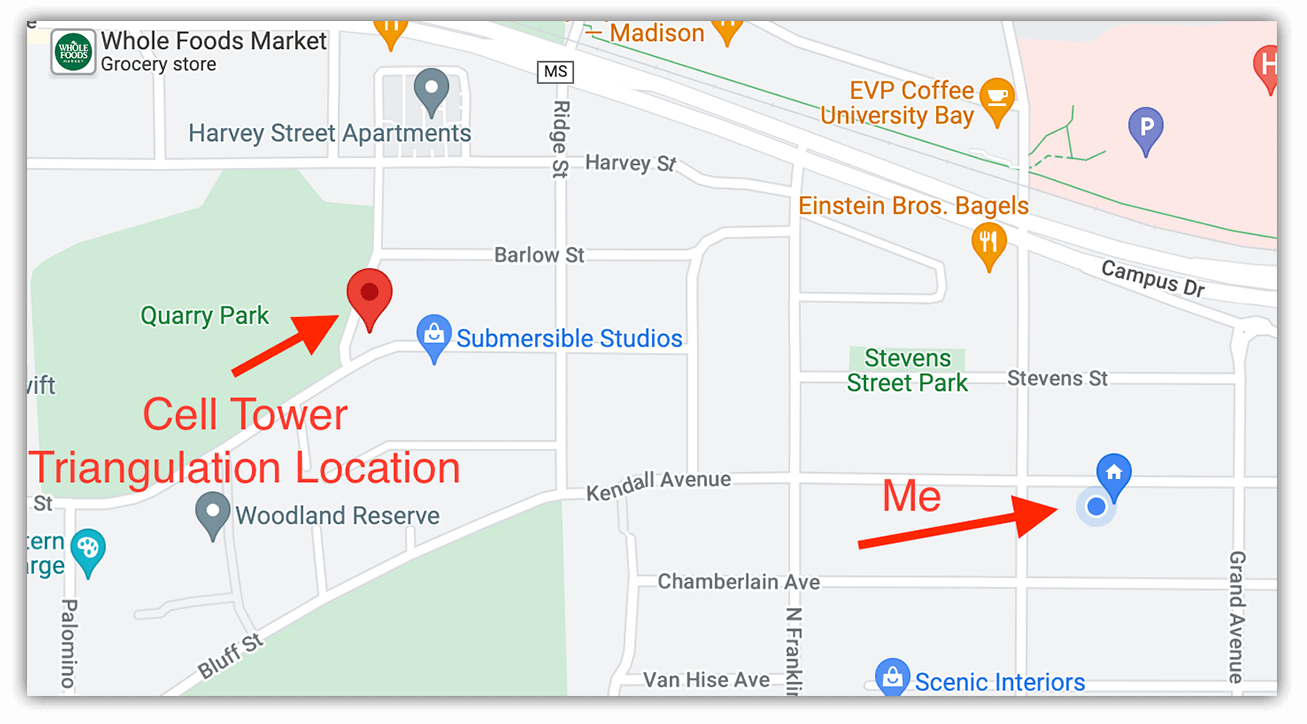
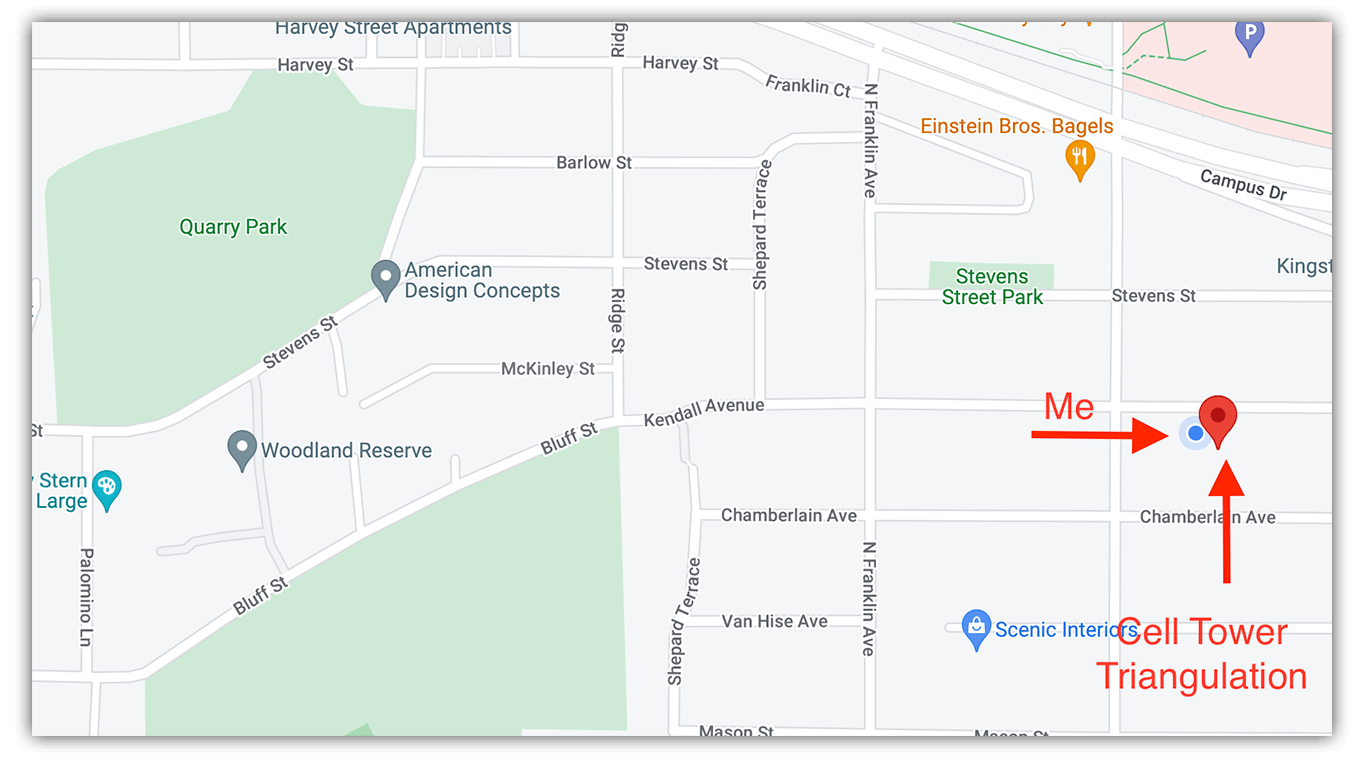
carr-f post

diff --git a/blues/triangulation/triangulation.md b/blues/triangulation/triangulation.md
@@ -1,4 +1,4 @@
-# Use Cellular and Wi-Fi Triangulation to Achieve Pin-Point Locations, without GPS
+# Use Cell Tower and Wi-Fi Triangulation to Achieve Pin-Point Locations, without GPS
 
 Many IoT solutions include one basic requirement: to know precisely _where_ they are in the world.
 
@@ -10,7 +10,7 @@ While ascertaining location is usually handled with a GNSS/GPS module, there are
 2. Use of a physical enclosure that prevents a GPS fix.
 3. Low-power solutions that can't afford the power drain of GPS.
 
-Here at Blues Wireless, when we talk about gathering lat/lon coordinates, we usually refer people to the onboard GPS capabilities of the [Cellular Notecard](/products/notecard/). However, today I want to look more closely at a lesser-known capability of the Notecard: [cell tower and Wi-Fi triangulation](https://dev.blues.io/notecard/notecard-walkthrough/time-and-location-requests/#using-cell-tower-and-wi-fi-triangulation).
+Here at Blues Wireless, when we talk about gathering lat/lon coordinates, we usually refer people to the onboard GPS capabilities of the [Cellular Notecard](/products/notecard/). However, today I want to look more closely at a lesser-known capability of the Notecard: [Cell Tower and Wi-Fi Triangulation](https://dev.blues.io/notecard/notecard-walkthrough/time-and-location-requests/#using-cell-tower-and-wi-fi-triangulation).
 
 ## Triangulation
 
@@ -20,7 +20,7 @@ If you've taken basic trigonometry or geometry courses, you already know that tr
 
 The Notecard provides built-in capabilities of utilizing triangulation in a couple of different ways, in the form of cell tower triangulation, Wi-Fi triangulation, or both!
 
-## Cell Tower Triangulation
+## Cell Tower Location
 
 If you're experienced with the Cellular Notecard, you've likely noticed the `tower_` parameters that show up in Notehub events:
 
@@ -40,7 +40,9 @@ For example, here is the approximate position of the cell tower relative to me:
 
 ![single cell tower location with notecard](triangulation-single-cell-tower.png)
 
-In scenarios where GPS is unusable, performing **cell tower triangulation** with the Notecard can provide a slight improvement, thanks to the magic of the [card.triangulate](https://dev.blues.io/reference/notecard-api/card-requests/#card-triangulate) API.
+## Cell Tower Triangulation
+
+In scenarios where GPS is unusable, performing **cell tower triangulation** with the Notecard can provide a massive improvement, thanks to the magic of the [card.triangulate](https://dev.blues.io/reference/notecard-api/card-requests/#card-triangulate) API.
 
 To enable cell tower triangulation on a Cellular Notecard, simply issue this request:
 
@@ -51,40 +53,40 @@ To enable cell tower triangulation on a Cellular Notecard, simply issue this req
 }
 ```
 
-Upon the next connection to Notehub, the location data in events will be based on a triangulation of **all the cell towers** the Notecard is able to see and will appear in the `tri_*` parameters, like so:
+The next time the Notecard establishes a new session with Notehub, the accumulated cell tower information will be uploaded and processed. The location data in every event will then be based on a triangulation of **all the cell towers** the Notecard is able to see and will appear in the `tri_*` parameters, like so:
 
 ```
-"tri_when": 1656001132,
-"tri_lat": 43.072645,
-"tri_lon": -89.440964,
+"tri_when": 1656011112,
+"tri_lat": 43.07113895,
+"tri_lon": -89.43272533,
 "tri_location": "Shorewood Hills WI",
 "tri_country": "US",
 "tri_timezone": "America/Chicago",
-"tri_points": 15,
+"tri_points": 16,
 ```
 
 Here is my updated location, based on cell tower triangulation:
 
 ![cell tower triangulation with notecard](triangulation-cell-towers.png)
 
-As you can see, the actual location has improved a little, but it's still not  great (yet will improve as more cell towers are visible!).
+As you can see, the actual location has improved significantly, and will only improve as more cell towers become visible.
 
 > **NOTE:** It's important to know that cell tower triangulation comes with a non-trivial power penalty because the modem scan for nearby cell towers can take almost as long as an entire sync. Triangulation also only occurs during a connection to Notehub and there is no way to "re-triangulate" during a `continuous` Notehub session.
 
-Let's see if we can improve our location accuracy by adding Wi-Fi triangulation!
+Let's see if we can improve upon this by mixing in Wi-Fi triangulation!
 
 ## Wi-Fi Triangulation
 
 If your host MCU has an onboard Wi-Fi module, you can perform a Wi-Fi access point (AP) scan and send this data to the Notecard to perform Wi-Fi triangulation. This allows for vastly improved location accuracy.
 
-> Using the [Wi-Fi Notecard](/products/wifi-notecard/)? See below for information on how Wi-Fi triangulation is used with this Notecard!
+> Using the [Wi-Fi Notecard](/products/wifi-notecard/)? See below for information on how Wi-Fi triangulation is used automatically with this Notecard!
 
 The format of the `card.triangulate` call is a little different when using Wi-Fi triangulation. Note that you can use `cell`, `wifi`, or both with `wifi,cell` when enabling triangulation!
 
 ```
 {
   "req": "card.triangulate",
-  "mode": "wifi,cell",
+  "mode": "wifi",
   "text": "+CWLAP:(4,\"Blues\",-51,\"74:ac:b9:12:12:f8\",1)\n+CWLAP:(3,\"AAAA-62DD\",-70,\"6c:55:e8:91:62:e1\",11)\n+CWLAP:(4,\"Blues\",-81,\"74:ac:b9:11:12:23\",1)\n+CWLAP:(4,\"Blues\",-82,\"74:ac:a9:12:19:48\",11)\n+CWLAP:(4,\"Free Parking\",-83,\"02:18:4a:11:60:31\",6)\n+CWLAP:(5,\"GO\",-84,\"01:13:6a:13:90:30\",6)\n+CWLAP:(4,\"AAAA-5C62-2.4\",-85,\"d8:97:ba:7b:fd:60\",1)\n+CWLAP:(3,\"DIRECT-a5-HP MLP50\",-86,\"fa:da:0c:1b:16:a5\",6)\n+CWLAP:(3,\"DIRECT-c6-HP M182 LaserJet\",-88,\"da:12:65:44:31:c6\",6)\n\n"
 }
 ```
@@ -101,7 +103,7 @@ your Wi-Fi enabled host MCU, and sending them to the Notecard in one command:
 aux_wifi.updateTriangulationData();
 ```
 
-How much better are my results when using Wi-Fi triangulation? Well the only access point my ESP32 was able to find is my own home router. However, even with just that one AP, here are the results:
+How different are my results when using Wi-Fi triangulation? Well the only access point my ESP32 was able to find is my own home router. However, even with just that one AP, here are the results:
 
 ```
 "tri_when": 1656011112,
@@ -129,7 +131,7 @@ After setting up a Wi-Fi Notecard myself, here were the results in a given event
 
 ```
 "tri_when": 47,
-"tri_lat": 43.07121864,-89.43263674
+"tri_lat": 43.07121864,
 "tri_lon": -89.43263674,
 "tri_location": "Shorewood Hills WI",
 "tri_country": "US",

diff --git a/blues/notecarrier-f/notecarrier-f.md b/blues/notecarrier-f/notecarrier-f.md
@@ -1,0 +1,48 @@
+# Introducing the New Feather-Compatible Notecarrier-F
+
+We're excited today to introduce you all to the newest Adafruit Feather-compatible product in the Blues Wireless portfolio, the [Notecarrier-F](TODO).
+
+![blues wireless notecarrier-f](notecarrier-f.jpg)
+
+*Pre-release Notecarrier-F hardware shown.*
+
+More than just a new revision of the original Notecarrier-AF, we re-imagined the Notecarrier-F from the ground up. We spoke with many of you to learn how you were using the AF and learned how we could best improve the design, layout, and performance of this new Feather-compatible Notecarrier.
+
+## Notecarrier-F Features and Benefits
+
+Aside from just *looking amazing*, the Notecarrier-F provides significant enhancements and new features for Feather MCU enthusiasts:
+
+1) The electrical system has been redesigned to be **far more power efficient** than the AF and consume only ~15uA when idle (nearly matching the Notecard's idle consumption of ~8uA).
+
+2) The overall **footprint is considerably smaller** than the Notecarrier-AF, maintaining the same width as a Feather-compatible MCU (like the [Blues Wireless Swan](/products/swan/)) and allowing for more flexible deployments:
+
+![blues wireless notecarrier-f](notecarrier-f-swan.jpg)
+
+*Pre-release Notecarrier-F hardware shown.*
+
+3) We've **added a `V+` JST connector** alongside the existing `SOLAR` and `LIPO` connectors, and oriented them horizontally for easier access.
+
+![blues wireless notecarrier-f](notecarrier-f-vplus.jpg)
+
+*Pre-release Notecarrier-F hardware shown.*
+
+4) **Two QWIIC connectors** have been added next to the Micro-USB port (again, mounted horizontally) which allow for easy additions of QWIIC-based I2C peripherals.
+
+![blues wireless notecarrier-f](notecarrier-f-qwiic.jpg)
+
+*Pre-release Notecarrier-F hardware shown.*
+
+5) All of the **pin labels** on the Notecarrier-F PCB are available on the front AND the back, easing those frustrations when trying to find right pin!
+
+6) Finally, there are **no onboard antennas** on the Notecarrier-F. Wait, this is a benefit!? Actually yes! We've found that most of you are either using your own antennas and the rest will be pleased to know that we will be including a [Molex 213353 LTE+GPS antenna](https://www.molex.com/molex/products/part-detail/antennas/2133530100) which provides outstanding performance in a variety of conditions.
+
+![blues wireless notecarrier-f](notecarrier-f-notecard-antenna.jpg)
+
+## Get Your Notecarrier-F
+
+The Notecarrier-F is available TODAY in the Blues Wireless store! You can pick it up in one of a variety of configurations:
+
+- [Cellular & Wi-Fi Starter Kit for Feather (Swan)](TODO)
+- [Feather Starter Kit for Swan](TODO)
+- [Feather Starter Kit for ESP32](TODO)
+- [Standalone Notecarrier-F](TODO)
